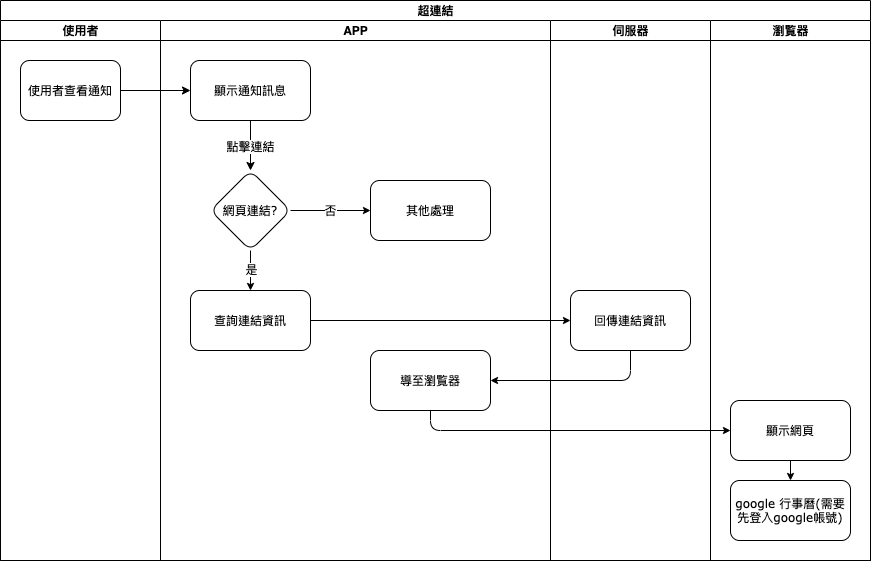
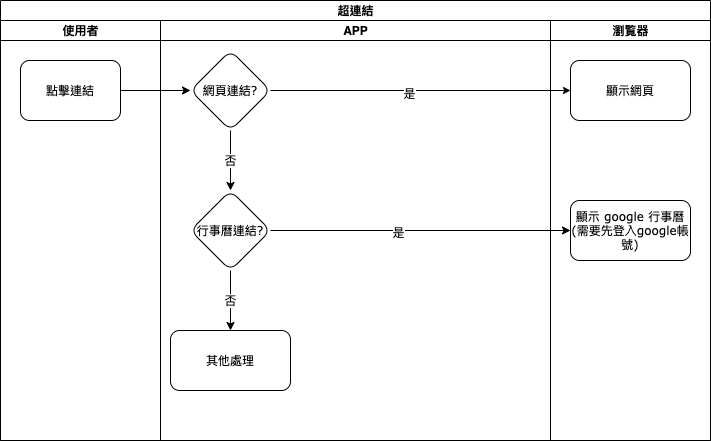
修改超連結資料

diff --git a/8.10.0/UPDATE/ITEM_2/MAE/notification_hyperlink.md b/8.10.0/UPDATE/ITEM_2/MAE/notification_hyperlink.md
@@ -1,16 +1,24 @@
+#### <div id="notification_hyperlink">功能項目名稱</div>
+  * 超連結
+
 ## <div id="user">規劃人員</div>
   * Andy
 
 ## <div id="updatedate">規劃日期</div>
-  * 2020/11/06
+  |日期|版本|備註|
+  |---|---|---|
+  |2020/11/06|v1|初始化|
 
 ## <div id="trac">TRAC</div>
-  * 待補
+  * [#8191](http://trac.uneec.com/trac/neco/ticket/8191)
 
-#### <div id="notification_hyperlink">超連結<path>(推播通知)</path></div>
-* 規格說明
-  * 以推播資料所包含的唯一號，和伺服器取得超連結的網址，轉導至瀏覧器開啟網頁
-  * 以推播資料所包含的唯一號，和伺服器取得連結google行事曆的網址，需要自行登入 google 帳號
-* 作業流程
+#### [<div id="notification_log">規格說明</div>
+  * 規格說明
+    * 以推播資料所包含的連結類型＝超連結，依連結資料，轉導至瀏覧器並開啟網頁
+    * 以推播資料所包含的連結類型＝行事曆，依連結資料，轉導至瀏覧器並開啟google行事曆(需要自行登入 google 帳號)
 
-  ![Notification Hyperlink](./image/workflow_hyperlink.png)
+
+#### <div id="photo">畫面</div>
+  * 作業流程
+
+    ![Notification Hyperlink](./image/workflow_hyperlink.png)
